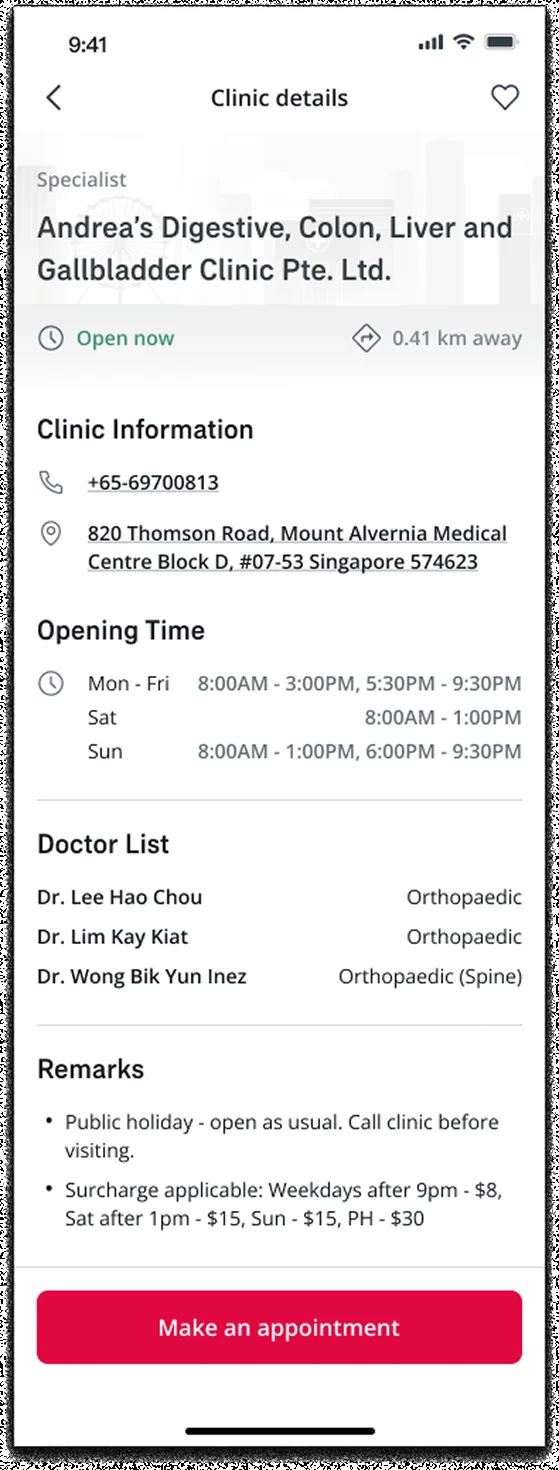
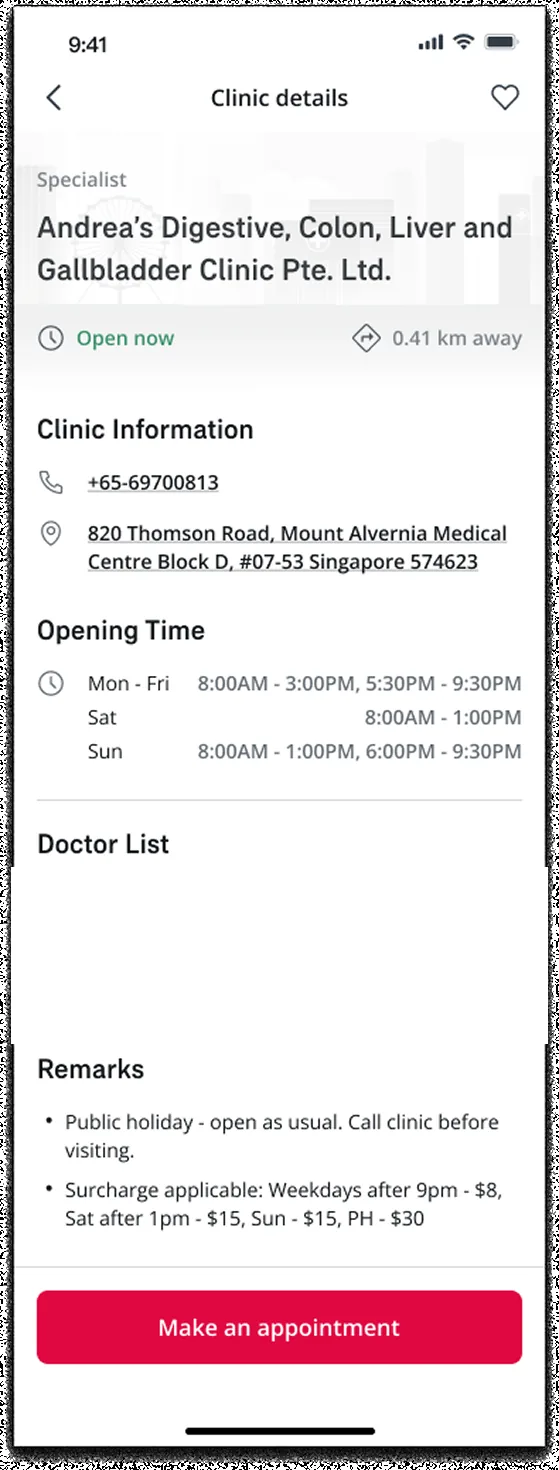
feat: swap the two AIA+ name-bearing cards for clean store screens
- the previous aia-3/aia-4 were AIA+ Singapore store mockups showing the demo customer name
  CATHERINE HUANG; replaced with the Vitality & Health360 and Rewards screens, which contain
  no personal name and no model
- redact the doctor names on the Clinic details card (measured at 60-70% of the image, then
  re-read at 2x zoom to confirm nothing legible remains)
- AIA+ keeps 4 cards, matching the COSMIC and Pijar rows

diff --git a/data/resume.js b/data/resume.js
@@ -39,21 +39,21 @@ export const experience = [
         w: 559,
         h: 1470,
         caption: 'Clinic details',
-        alt: 'AIA+ app screen: clinic details with operating hours, contact information and a list of doctors.',
+        alt: 'AIA+ app screen: clinic details with operating hours, contact information and doctor list. Doctor names redacted.',
       },
       {
         id: 'aia-3',
-        w: 810,
-        h: 1440,
-        caption: 'Policy dashboard',
-        alt: 'AIA+ store screenshot: dashboard with policy summary, Vitality tiers and rewards balance.',
+        w: 1080,
+        h: 2347,
+        caption: 'Vitality & Health360',
+        alt: 'AIA+ store screenshot: AIA Vitality and Health360 dashboard with points and weekly fitness challenge.',
       },
       {
         id: 'aia-4',
-        w: 810,
-        h: 1440,
-        caption: 'Biometric sign-in',
-        alt: 'AIA+ store screenshot: personalised greeting with biometric sign-in prompt and claim shortcuts.',
+        w: 1080,
+        h: 2347,
+        caption: 'Rewards',
+        alt: 'AIA+ store screenshot: rewards screen with Delight points, AIA Altitude tier and Plan360.',
       },
     ],
   },
